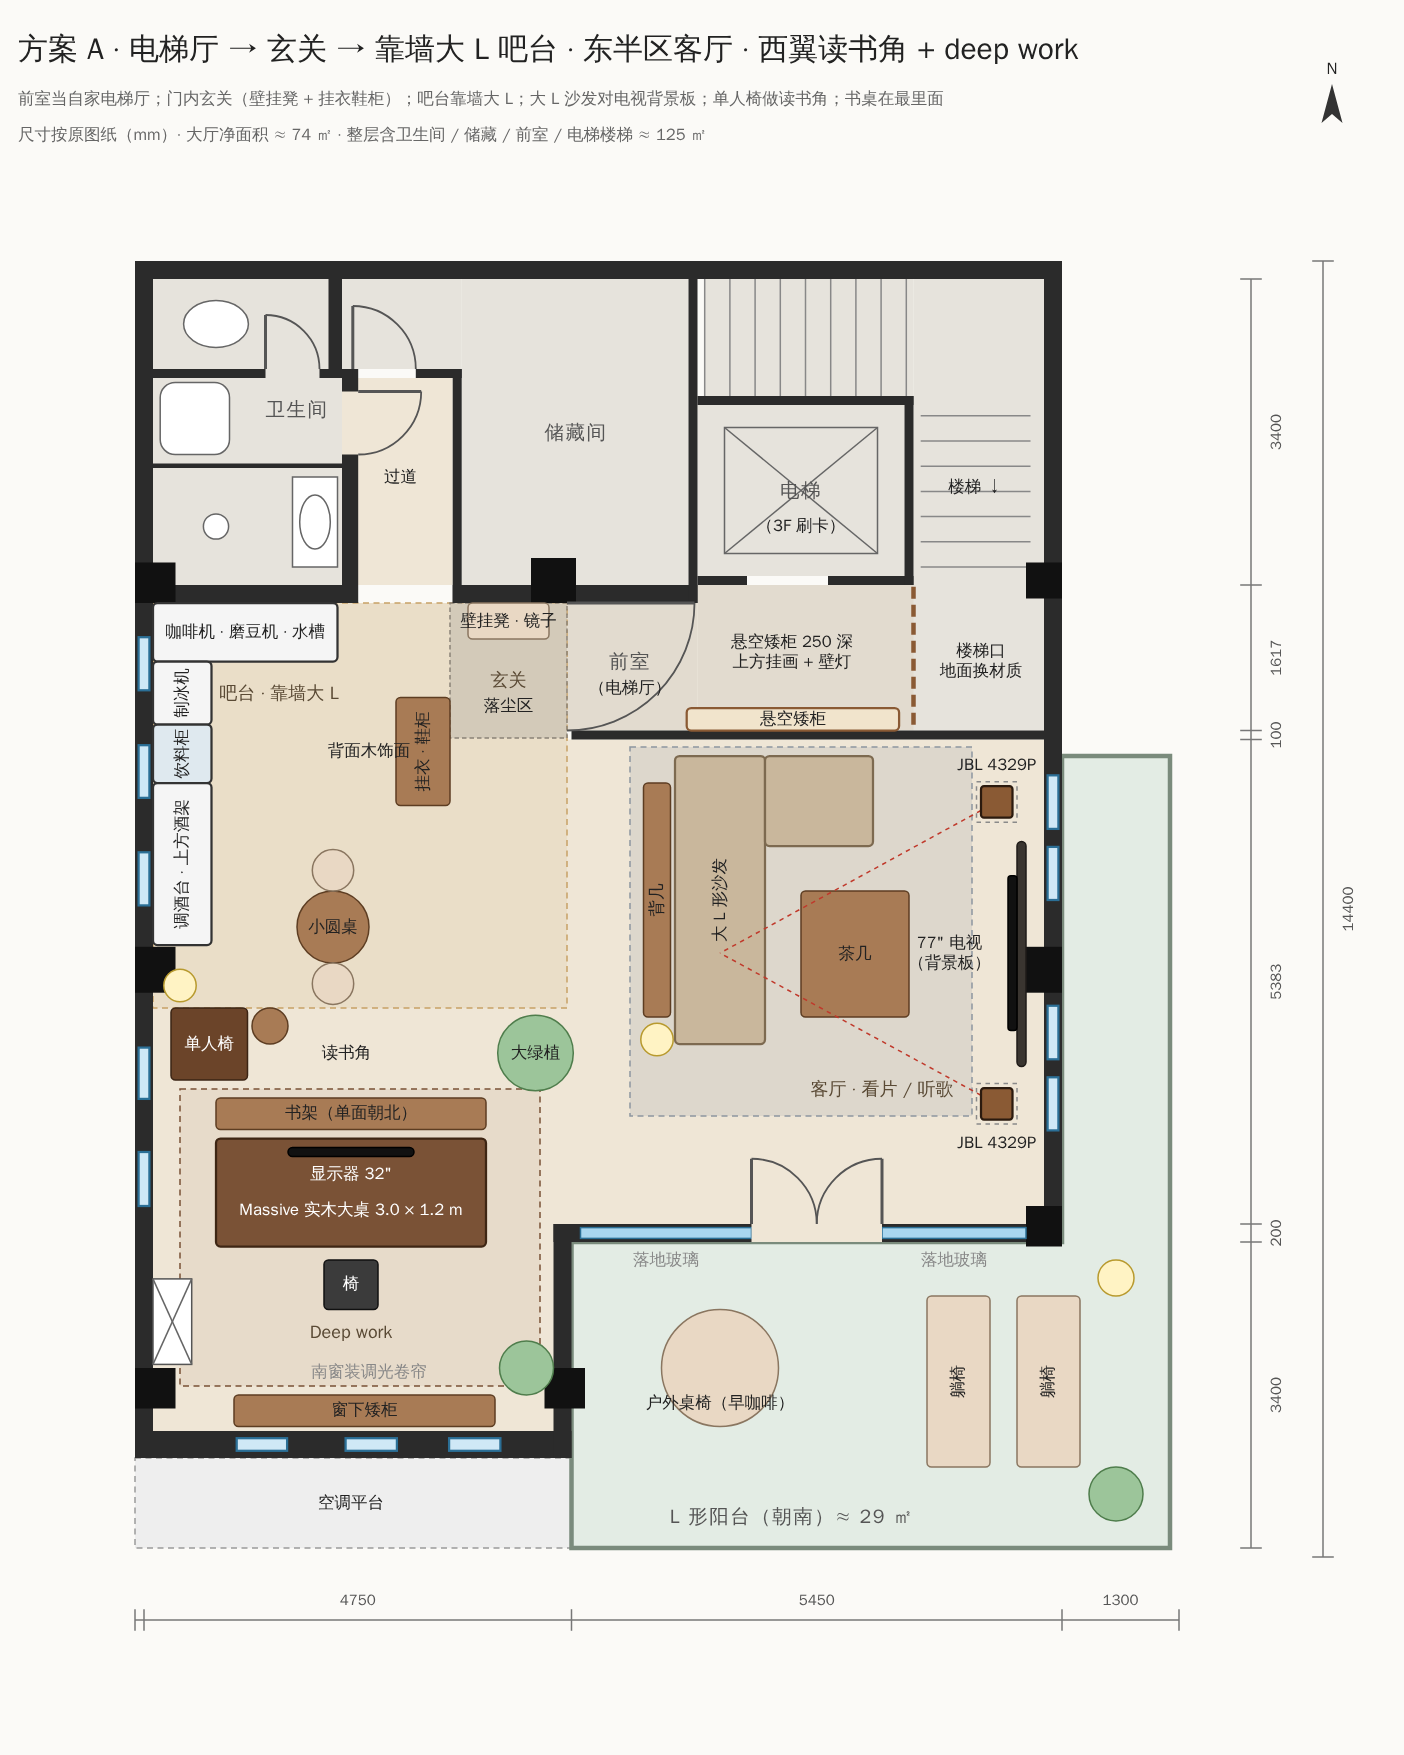
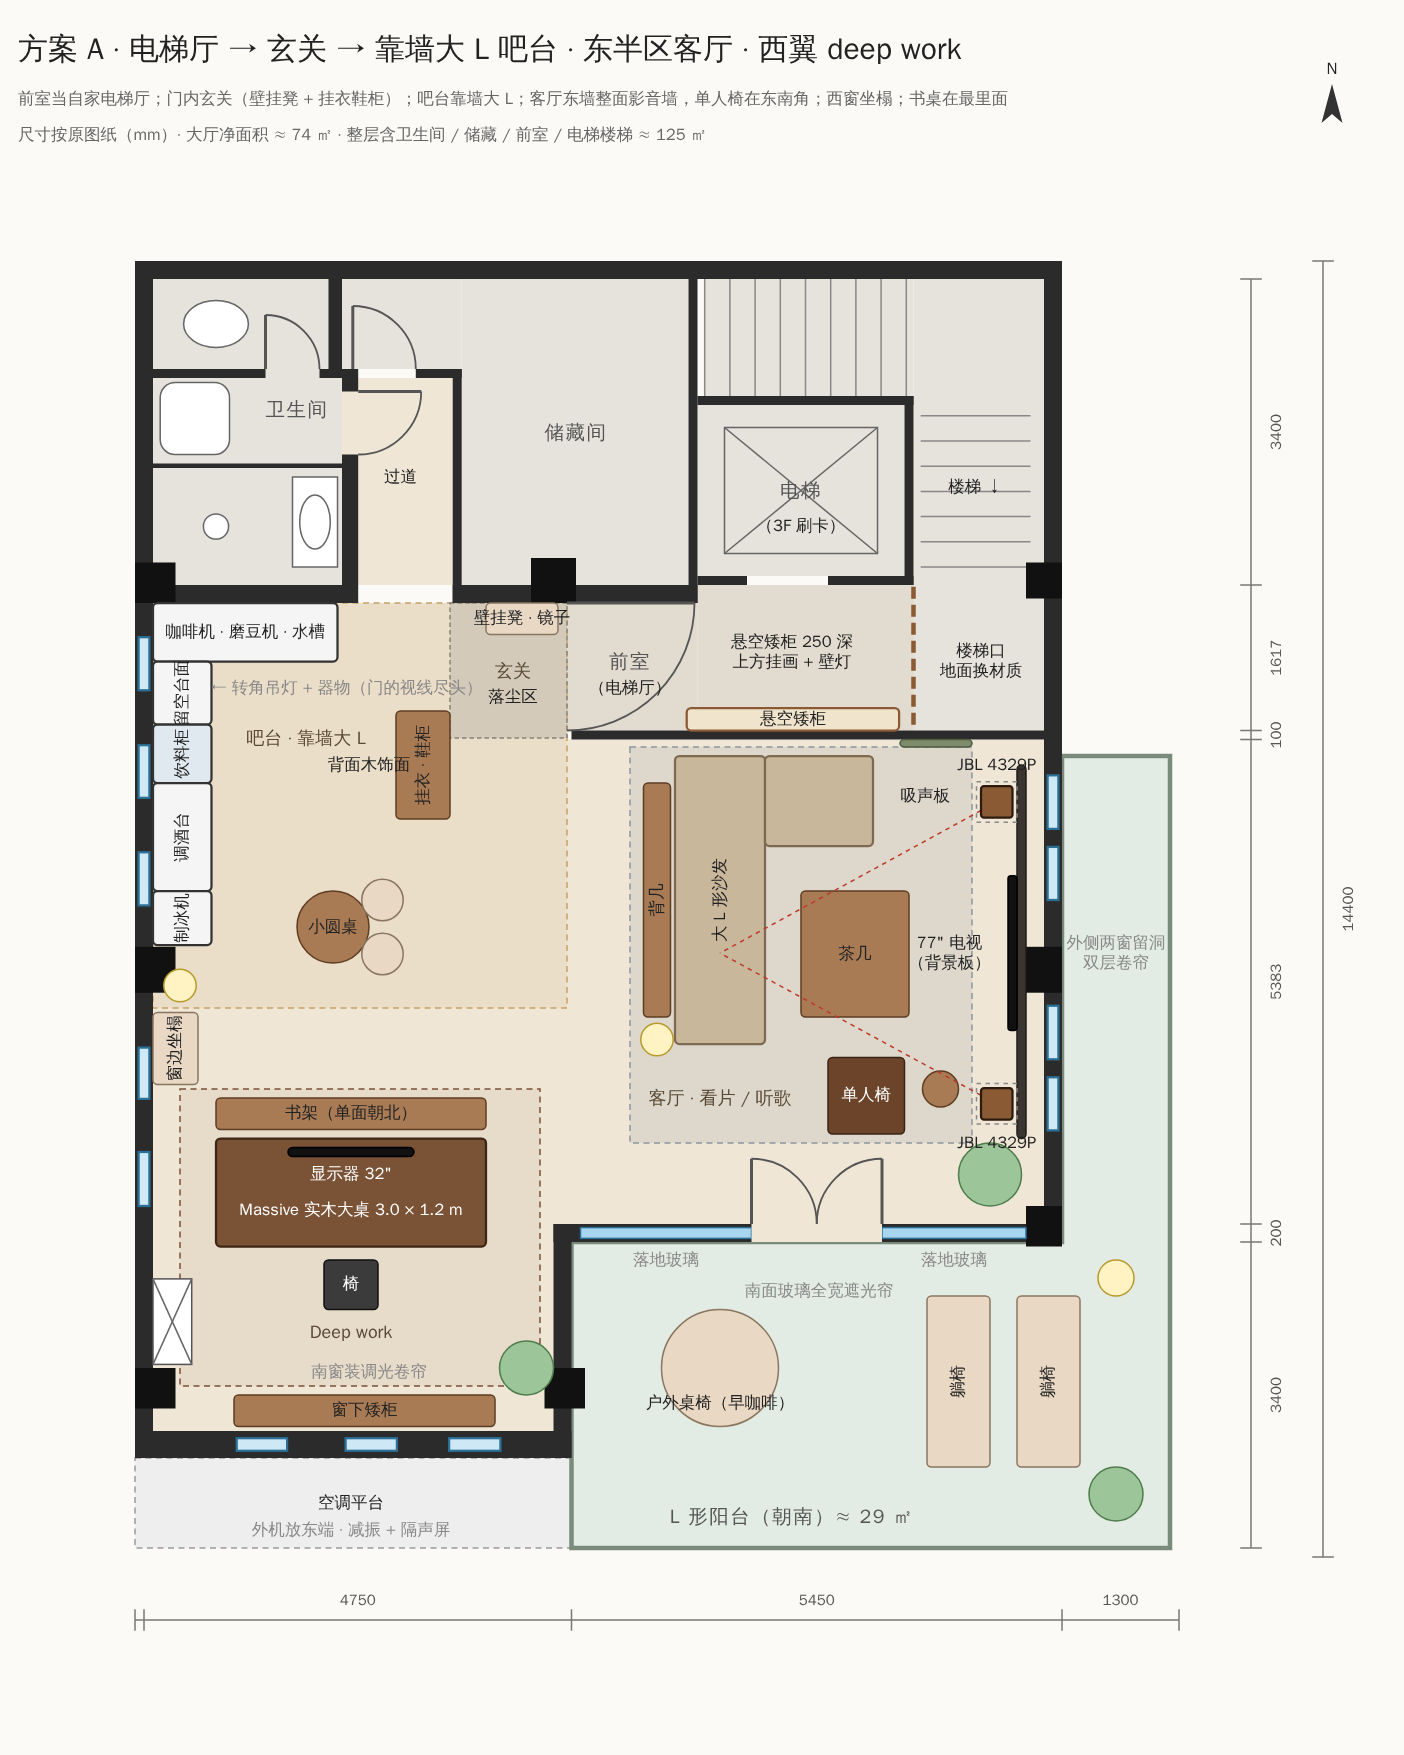
Floor plan A: apply design review round 2
Foyer: shallower wall bench shifted east and the coat/shoe cabinet moved
south so the foyer passage stays 1.2 m clear; the bar's NW corner is
left open as the focal point at the end of the door's sightline. East
wall becomes a full media wall (outer windows kept as openings with
dual roller blinds, acoustic panel at the north speaker's first
reflection). Lounge chair returns to the living room's SE corner; west
window gets a built-in seat; big plant moves off the main path. Notes
for south-glass blackout curtains and AC unit noise.

Claude-Session: https://claude.ai/code/session_01UszicjF1djv9j8mqGC9SHb

diff --git a/loft-floor-plan/README.md b/loft-floor-plan/README.md
@@ -4,16 +4,16 @@
 图纸上的铅笔修改也画进去了。出图时统一转成**上北下南左西右东**：原图纸是横着画的，这里逆时针转了 90°。
 
 ```bash
-python3 floor_plan.py     # 生成 base.svg / plan_a.svg / plan_b.svg / bar_options.svg
+python3 floor_plan.py     # 生成 base / plan_a / plan_b / bar_options / entry_detail 五张 SVG
 ```
 
 | 文件 | 内容 |
 | --- | --- |
 | `floor_plan.py` | 建筑数据用图纸坐标（`DRAWING_*`），家具用转正后的平面坐标，渲染成 SVG |
 | `base.svg` / `.png` | 原图纸 + 铅笔修改（红色 = 划掉，橙色 = 新增） |
-| `plan_a.svg` / `.png` | 方案 A：门内做玄关；吧台靠墙做大 L（无岛台）；东半区客厅用大 L 沙发 + 一把单人椅，77" 电视挂东墙中间；西翼南端做 deep work |
+| `plan_a.svg` / `.png` | 方案 A（推荐）：电梯厅 → 玄关 → 靠墙大 L 吧台；东半区客厅（东墙整面影音墙、大 L 沙发、东南角单人椅）；西窗坐榻；西翼南端 deep work |
 | `plan_b.svg` / `.png` | 方案 B：西翼新加一道电视墙隔开吧台和 lounge，东半区做工作室 |
-| `entry_detail.svg` / `.png` | 入口缓冲前后对比：楼梯口分界 → 电梯厅 → 门内玄关（双面高柜挡视线） |
+| `entry_detail.svg` / `.png` | 入口前后对比：楼梯口地面分界 → 电梯厅（悬空矮柜 + 挂画壁灯）→ 门内玄关（壁挂凳 + 镜子，挂衣鞋柜挡视线） |
 | `bar_options.svg` / `.png` | 吧台三种做法：① 靠墙大 L（推荐），② 后吧台 + L 形前台，③ 平行式 |
 
 ## 定位
@@ -48,3 +48,15 @@ python3 floor_plan.py     # 生成 base.svg / plan_a.svg / plan_b.svg / bar_opti
 - 大厅是 L 形，净面积约 74 ㎡
 
 > 西墙的窗台高度要现场量一下。吧台方案 ① 和 ③ 都有一段台面贴着西窗下沿，窗台低于 0.9 m 的话要调整。
+
+## 方案 A 评审记录
+
+请一个独立评审代理按“平衡、舒适、动线、入口序列”做了两轮评审，按意见修改：
+
+- 第一轮 5.5 / 10：圆桌堵住调酒台、玄关凳子挡鞋柜、电视压窗、单人椅没法坐、书架和书桌错位。
+  已改：两人小圆桌；玄关重组；东墙电视背景板；书架单面朝北并和书桌对齐；沙发缩短并加背几；前室矮柜改 250 深；阳台加躺椅。
+- 第二轮 6.8 / 10：玄关通道在有人换鞋时只剩 0.68 m、外侧两扇东窗被音箱挡住、客厅重心偏西北、大绿植卡在主动线上。
+  已改：壁挂凳缩到 350 深并东移，鞋柜南移，玄关通道恒定 1.2 m；东墙改整面影音墙（外侧窗留洞 + 双层卷帘），
+  北音箱反射点贴吸声板；单人椅回到客厅东南角；西窗改嵌入坐榻；大绿植移到客厅东南角；吧台转角留空做门的视线尽头；
+  南面玻璃全宽遮光帘；空调外机放平台东端并做减振隔声。
+
